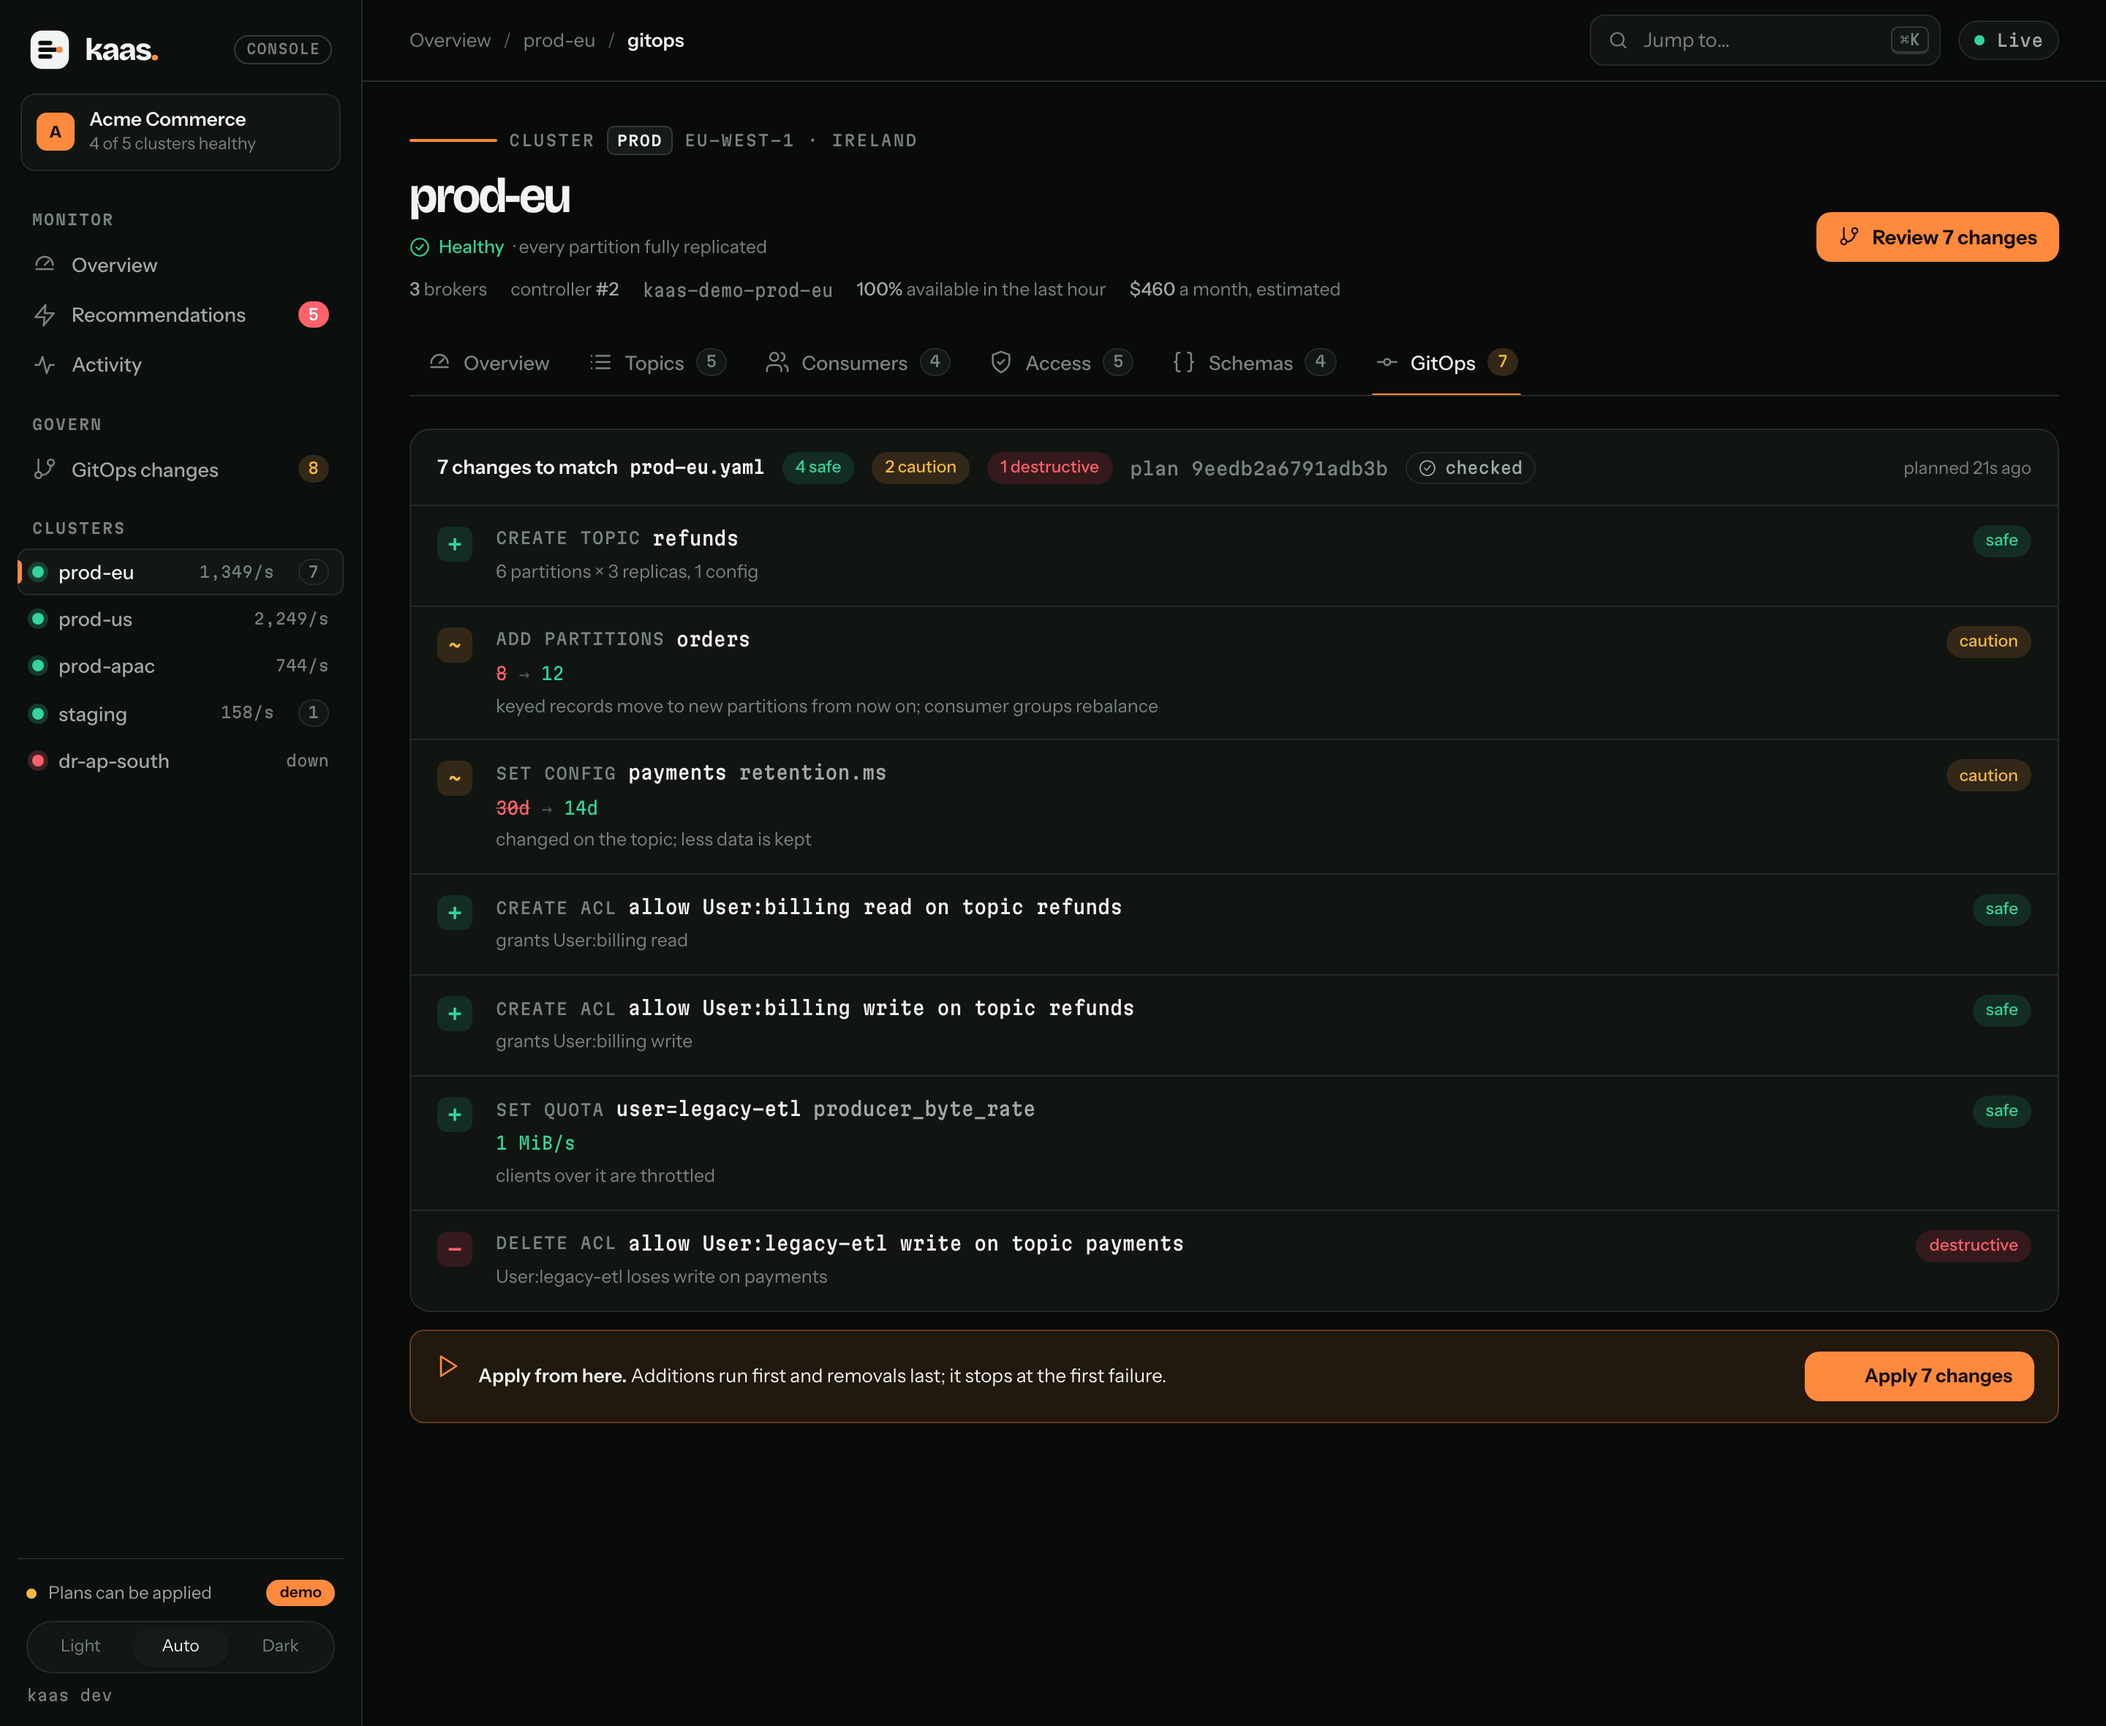
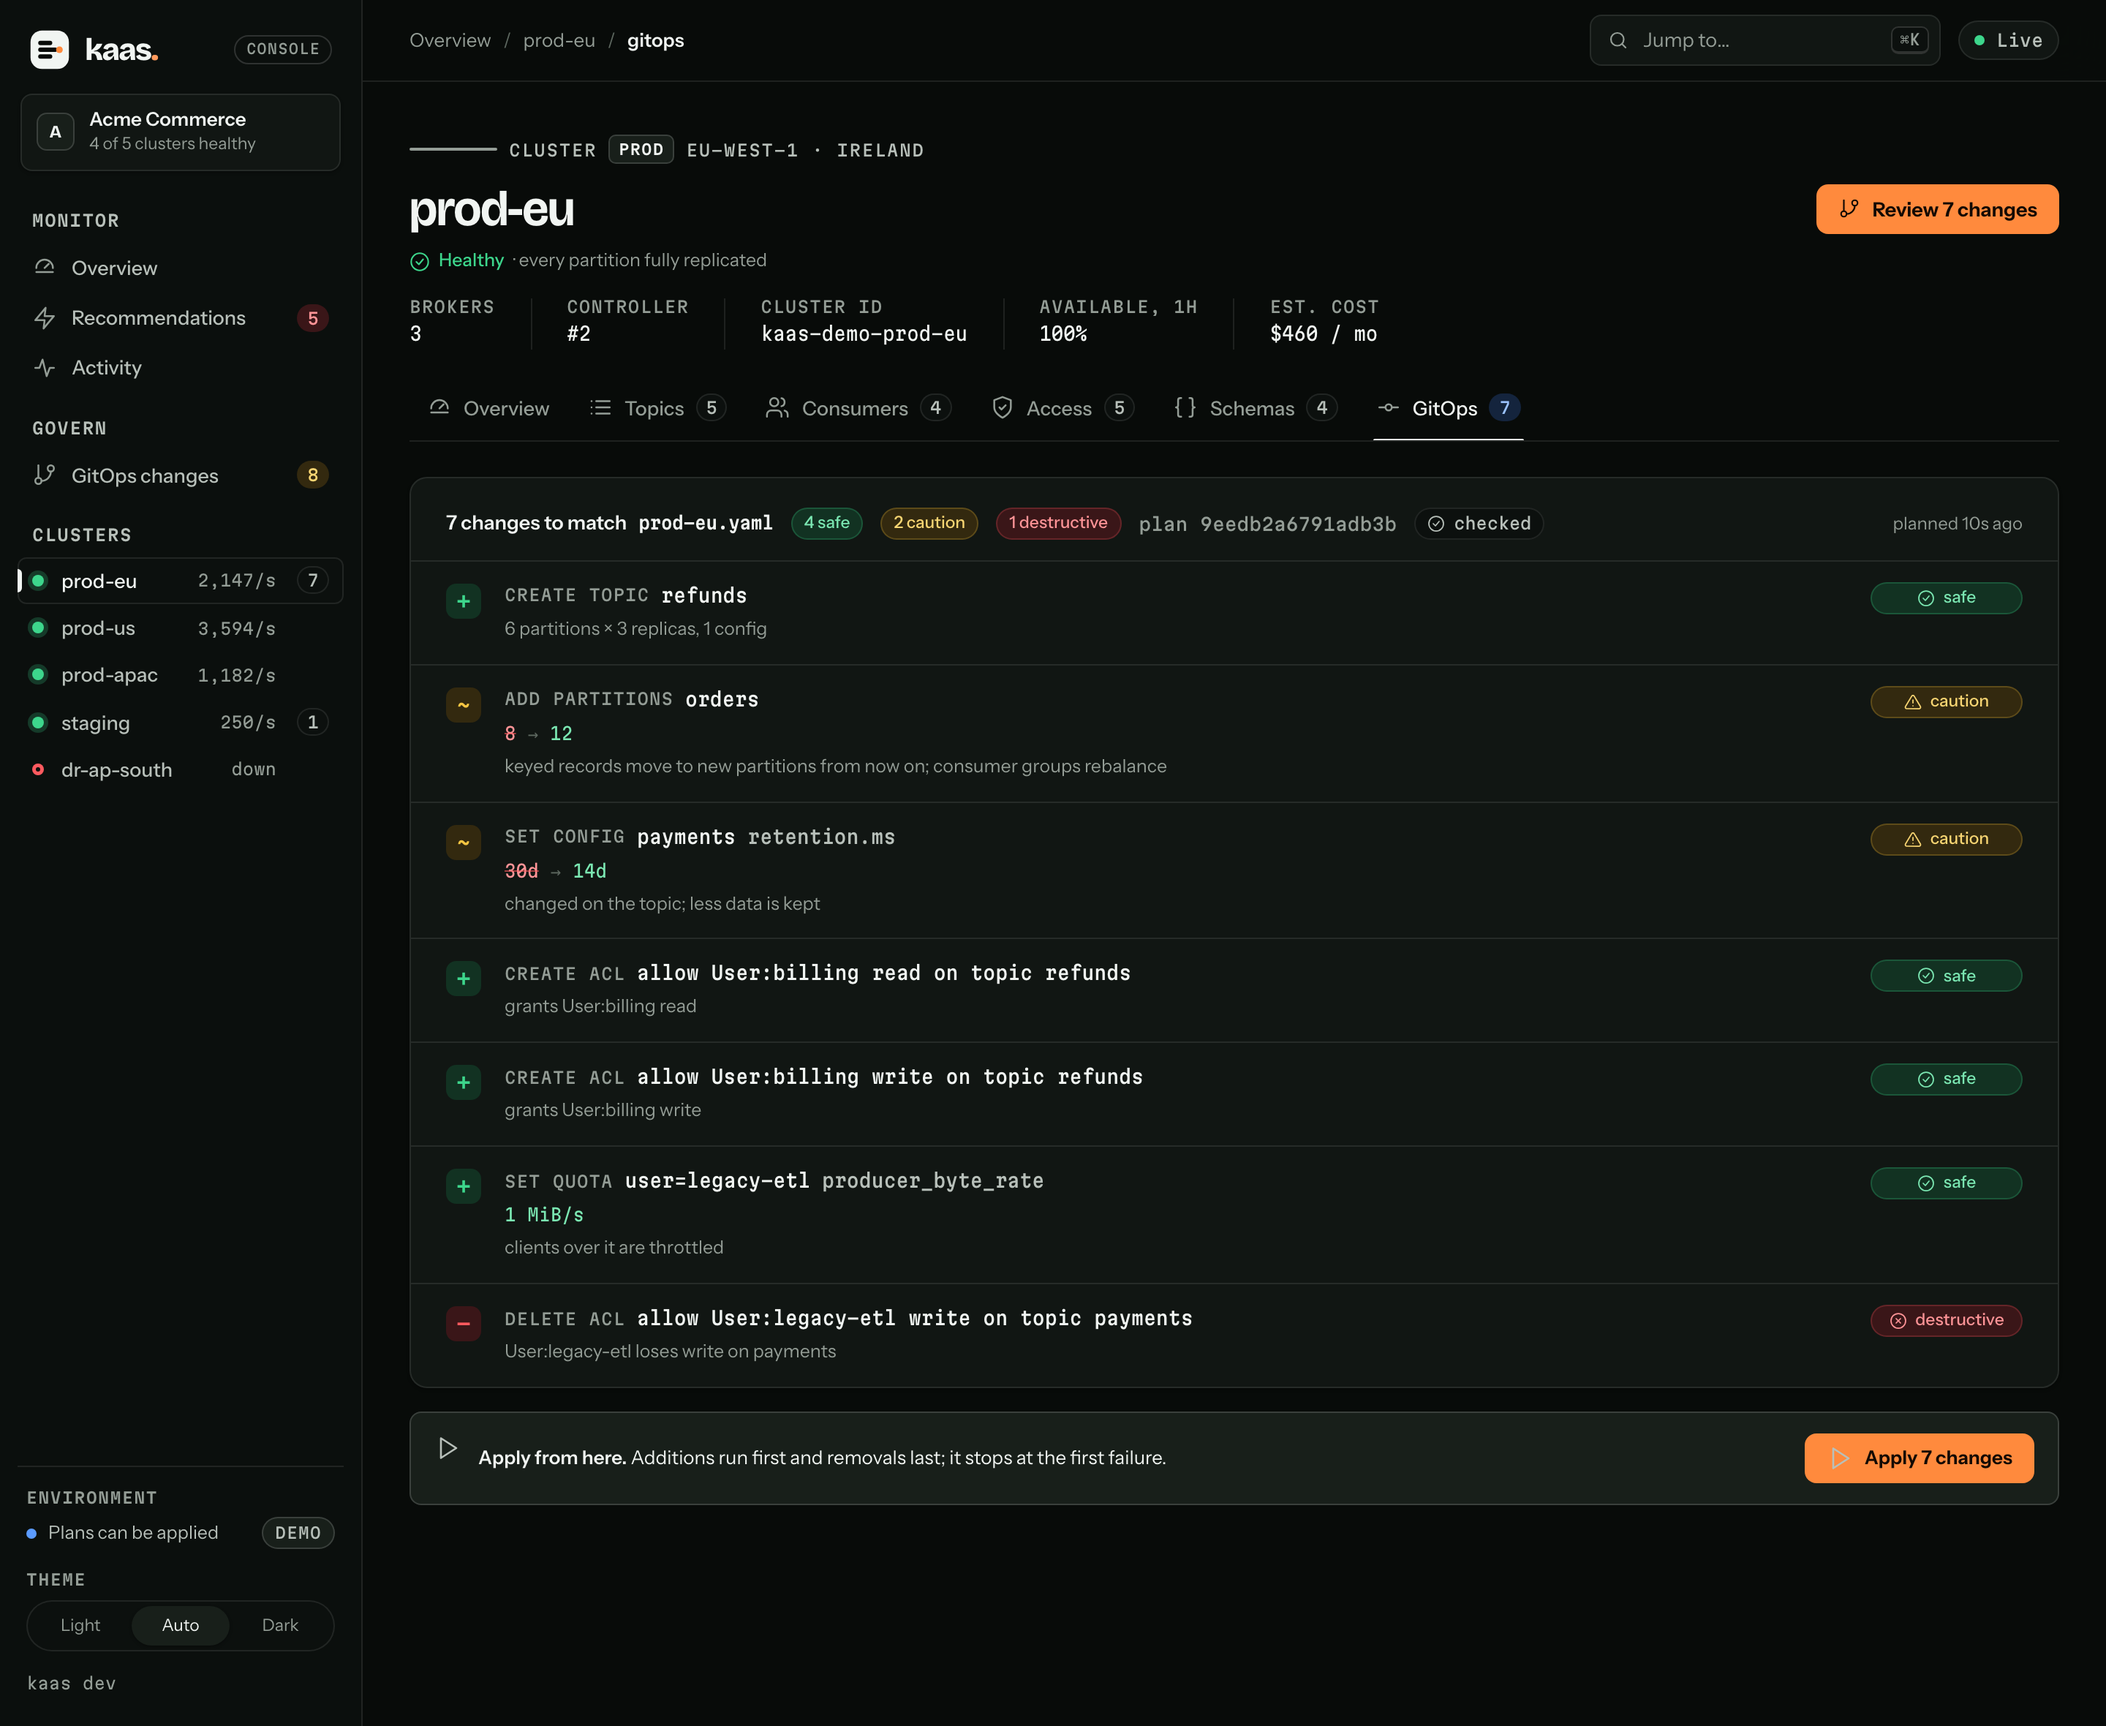
docs: the console's colour tokens and refreshed screenshots

diff --git a/docs/design/0002-gitops-plans-and-console.md b/docs/design/0002-gitops-plans-and-console.md
@@ -128,10 +128,18 @@ Apply errors:
 ### The web app
 
 - **Pages.** Overview, Recommendations, Changes (every cluster's drift on one page), Activity, and per cluster: overview, topics with a partition map, consumers, access, schemas and GitOps.
-- **Design tokens.** Every colour is a CSS custom property in `app.css`, defined once for dark and once for light; components never use literal colours. Surfaces are neutral graphite (Obsidian). The Electric Orange accent (`#FF8A3D`) marks primary actions, the selected page and the brand, never health. Health uses semantic pairs (success, warning, critical, information), each a foreground and a subtle background; recommendations use violet. Text keeps 4.5:1 contrast on every surface.
+- **Design tokens.** Every colour is a semantic CSS custom property in `app.css`, defined once for dark and once for light; components never use literal colours. Each colour has one job:
+  - **Surfaces:** four elevation steps (`--bg`, `--surface`, `--surface-raised`, `--overlay`) with 1px borders at about 9% white (`--border`).
+  - **Text:** `--text`, `--text-muted` and `--text-subtle`, each at least 4.5:1 on every surface.
+  - **Brand:** Electric Orange (`--brand`, `#FF8A3D`) marks the brand and the primary action only. It never means health, and headline accents are neutral.
+  - **Status:** success, warning (amber, yellower than the brand), danger and info, each with a solid, a `-bg` tint and a `-text` variant. Recommendations use the same red, amber and blue triplet for critical, warning and advice.
+  - **Unknown:** `--neutral-unknown` stands for no data.
+  - **Focus:** a 2px blue ring (`--focus`).
+
+  Status never relies on colour alone. Degraded is a diamond and down is a hollow ring, both on the map and in the sidebar. In the uptime strip a down minute is hatched, a degraded minute stands shorter, and a minute with no sample is only an outline.
 - **Updates.** Data is polled every 2.5 seconds and events are streamed. A rendering batch per animation frame and a keyed morph keep the page still while numbers change underneath.
 - **Charts.**
-  - Fixed series colours everywhere: produced is teal, consumed is violet and dashed, healthy capacity is green. The pair passes the colour-vision checks in both themes.
+  - Fixed series colours everywhere, far from the status hues: produced is cyan (`--series-produced`) and consumed is violet and dashed (`--series-consumed`). The pair passes the colour-vision checks in both themes.
   - A recessive grid.
   - A crosshair and tooltip on hover.
   - Sparklines scaled to their own range, so a quiet cluster's shape still shows.
